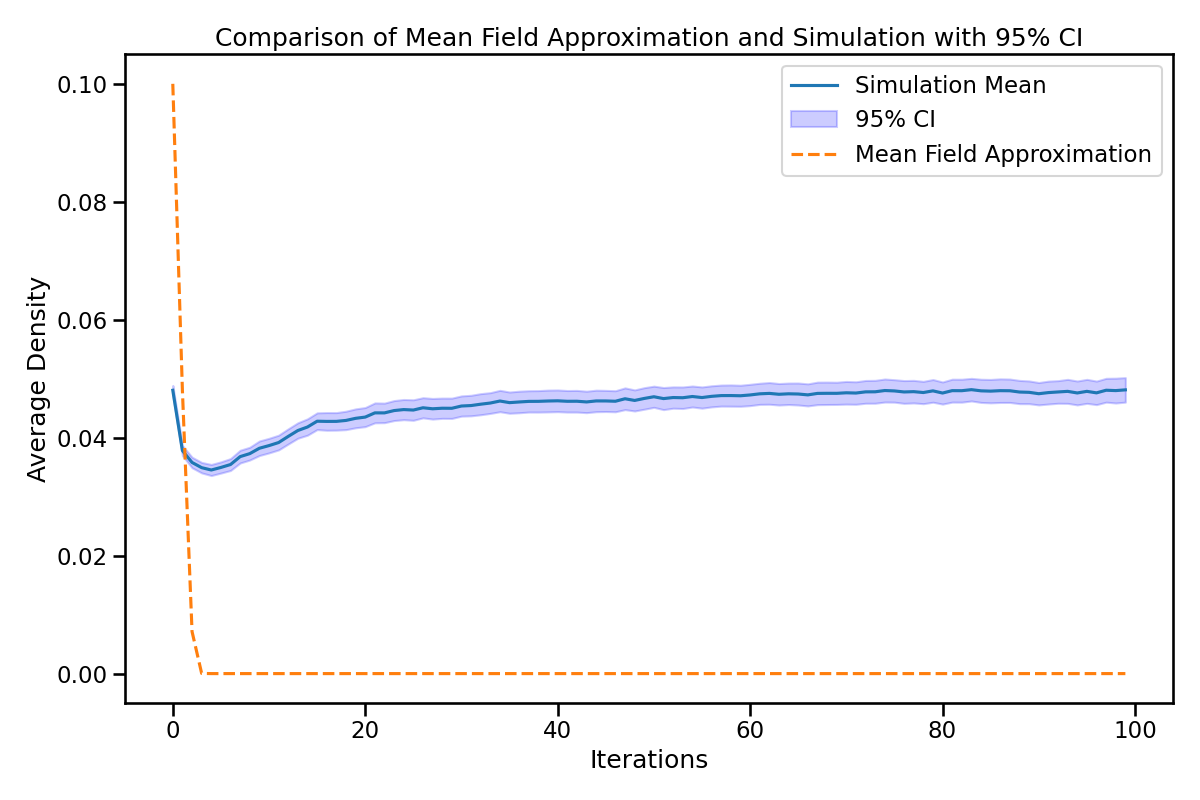
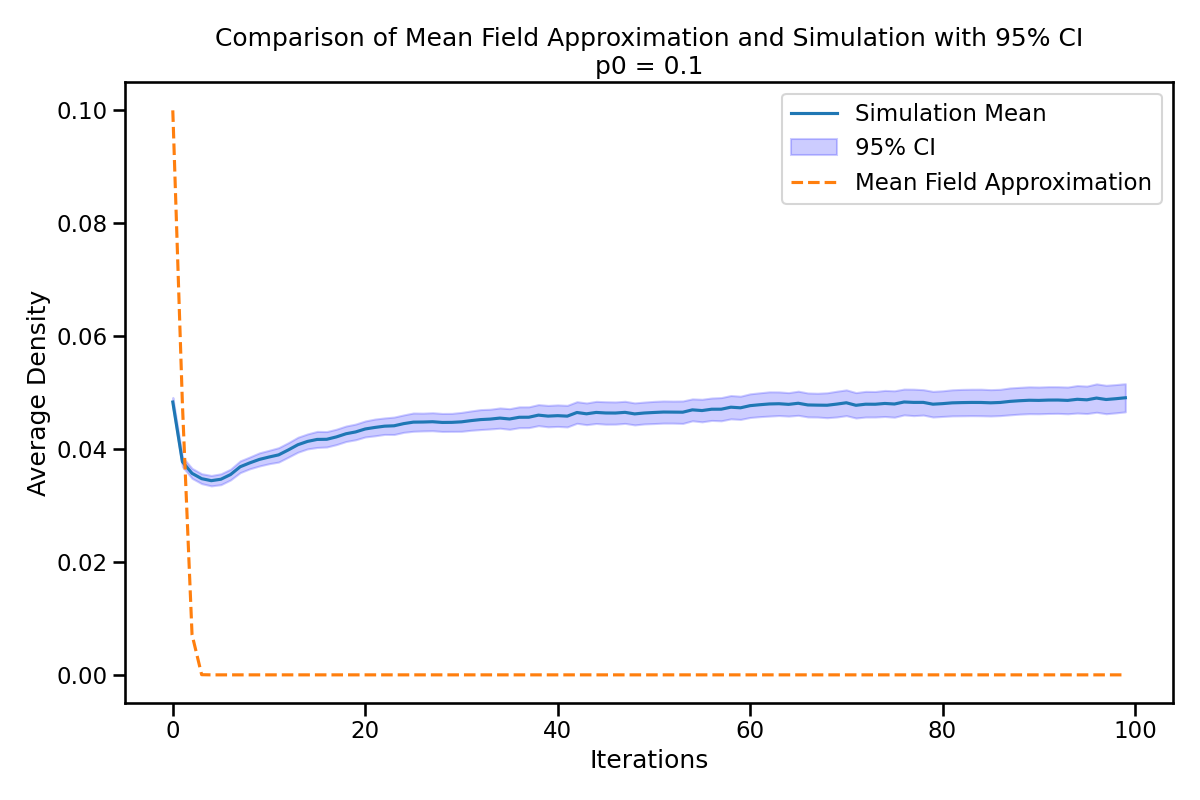
update Q12.7

diff --git a/homeworks/HW2/scripts/Q12.7/GL2D_Simulation.py b/homeworks/HW2/scripts/Q12.7/GL2D_Simulation.py
@@ -60,7 +60,7 @@ for p0 in [0.1, 0.2, 0.3, 0.4, 0.5, 0.6, 0.7, 0.8, 0.9]:
     plt.plot(range(iterations), mfa_values, label='Mean Field Approximation', linestyle='--')
     plt.xlabel('Iterations')
     plt.ylabel('Average Density')
-    plt.title('Comparison of Mean Field Approximation and Simulation with 95% CI')
+    plt.title(f'Comparison of Mean Field Approximation and Simulation with 95% CI\np0 = {p0}')
     plt.legend()
     plt.tight_layout()
     plt.savefig(f'../../simulation_figures/Q12.7/MeanFieldApproximation_vs_Simulation_p0={p0}.png')
